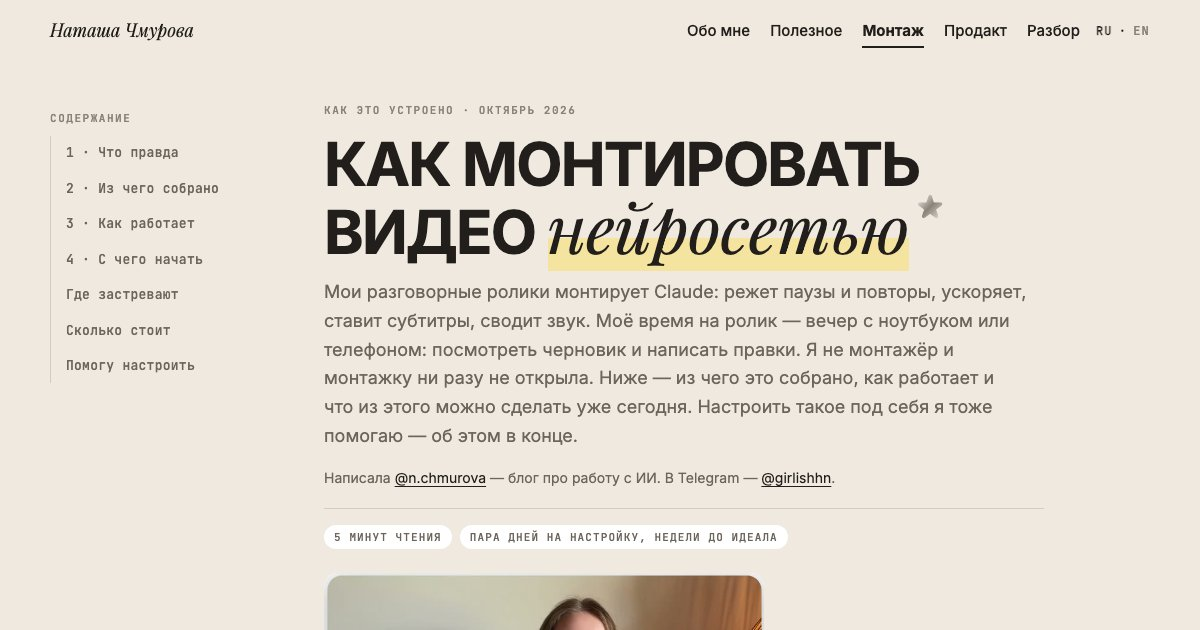
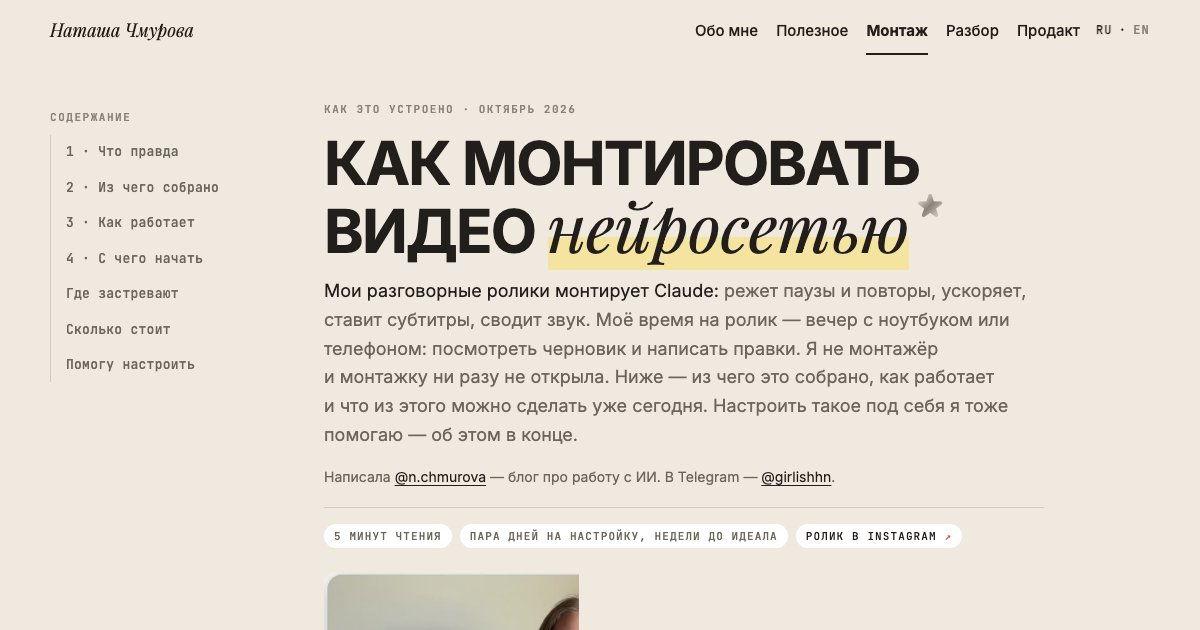
Сборка сайта 2026-10-08 17:57

diff --git a/links/index.html b/links/index.html
@@ -1,2 +1,2 @@
 <!DOCTYPE html><html lang="ru"><head><meta charset="utf-8"><meta name="viewport" content="width=device-width, initial-scale=1"><title>Полезное — Наташа Чмурова</title><meta name="description" content="Инсайты, инструкции, гайды и ссылки из моих роликов."><link rel="canonical" href="https://natalie-chmurova.github.io/links/"><link rel="icon" href="/favicon.svg" type="image/svg+xml"><meta name="theme-color" content="#EFE9DF"><meta property="og:type" content="website"><meta property="og:title" content="Полезное — Наташа Чмурова"><meta property="og:description" content="Инсайты, инструкции, гайды и ссылки из моих роликов."><meta property="og:url" content="https://natalie-chmurova.github.io/links/"><meta property="og:image" content="https://natalie-chmurova.github.io/og.jpg?v=35628582"><meta name="twitter:card" content="summary_large_image"><link rel="alternate" hreflang="en" href="https://natalie-chmurova.github.io/en/links/"><link rel="alternate" hreflang="ru" href="https://natalie-chmurova.github.io/links/"><link rel="preconnect" href="https://fonts.googleapis.com"><link rel="preconnect" href="https://fonts.gstatic.com" crossorigin><link href="https://fonts.googleapis.com/css2?family=Inter:wght@400;500;600;700&family=JetBrains+Mono:wght@500&family=Playfair+Display:ital,wght@1,400;1,500&display=swap" rel="stylesheet"><link rel="stylesheet" href="/_astro/Base.C2EbYzq-.css"><style>.follow{background:var(--ink);color:#fff;border-radius:var(--radius);gap:14px;padding:22px 20px;display:grid}.follow h2{font-family:var(--serif);font-size:28px;font-style:italic;font-weight:400}.follow ul{gap:8px;margin:0;padding:0;font-size:15px;list-style:none;display:grid}.follow li{align-items:baseline;gap:10px;display:flex}.follow li:before{content:"";background:var(--butter);border-radius:50%;flex:0 0 7px;height:7px;transform:translateY(-2px)}.follow-btn{background:var(--butter);color:var(--ink);border-radius:999px;flex-wrap:wrap;justify-self:start;align-items:center;gap:6px;padding:11px 18px;font-size:15px;font-weight:600;display:inline-flex}.follow-btn .handle{opacity:.7;font-weight:400}.follow-note{color:var(--faint);max-width:70ch;margin-top:12px;font-size:13px}@media (width>=720px){.follow{padding:28px 32px}.follow h2{font-size:32px}}@media (width<=479px){.follow-btn .handle{display:none}}
-</style></head><body><a class="skip-link" href="#main">К содержимому</a><header class="site-header"><a class="brand" href="/">Наташа Чмурова</a><div class="lang-switch"><span class="on">RU</span><span aria-hidden="true">·</span><a href="/en/links/" hreflang="en">EN</a></div><nav aria-label="Разделы"><a href="/">Обо мне</a><a href="/links/" aria-current="page">Полезное</a><a href="/montazh/">Монтаж</a><a href="/razbor/">Разбор</a><a href="/product/">Продакт</a></nav></header><main id="main"><div class="page-head"><h1>Полезное</h1><p>Инсайты, инструкции, гайды и ссылки из моих роликов.</p></div><section class="section" style="padding-top: 14px"><section class="guide-banner" aria-labelledby="guide-title"><img class="guide-cover" src="/img/links/montazh-guide.jpg?v=7ac51f4b" alt="" width="1200" height="675" loading="lazy"><div class="guide-text"><span class="chip topic">гайд</span><h2 id="guide-title"><a href="/montazh/">Как монтировать видео нейросетью</a></h2><p>Я не монтажёр. Мои разговорные ролики собирает нейросеть по правилам, которые я ей написала. Здесь — из чего это собрано, как работает и с чего начать.</p><a class="guide-cta" href="/montazh/" tabindex="-1" aria-hidden="true">Читать гайд <span class="arrow">→</span></a></div></section><div class="cards"><article class="card"><a href="/links/devday-2026/" tabindex="-1" aria-hidden="true"><img class="card-thumb" src="/img/links/devday-2026.jpg?v=ef1ae04a" alt="" width="1200" height="675" loading="lazy"></a><div><div class="chips"><span class="chip topic">новости</span></div><h3><a href="/links/devday-2026/">OpenAI DevDay 2026 — полная презентация</a></h3><p class="why">Запись, по которой я делала обзор. 53 минуты, на английском</p><p class="from">из ролика: <a href="https://www.instagram.com/reel/Dd8oIUbuosj/" target="_blank" rel="noopener">Instagram</a> · 01.10.2026</p></div></article><article class="card"><a href="/links/top-tools/" tabindex="-1" aria-hidden="true"><img class="card-thumb" src="/img/links/top-tools.jpg?v=6a9ca3b7" alt="" width="1200" height="675" loading="lazy"></a><div><div class="chips"><span class="chip topic">инструменты</span></div><h3><a href="/links/top-tools/">Топ инструментов</a></h3><p class="why">Полезные инструменты под разные задачи — текст, факты, видео, монтаж — с честными пометками, что открывается из Беларуси и России</p><p class="from">из ролика: <a href="https://www.instagram.com/reel/Dd6D0LMuVsR/" target="_blank" rel="noopener">Instagram</a> · 30.09.2026</p></div></article><article class="card"><a href="/links/instagram-export-prompt/" tabindex="-1" aria-hidden="true"><img class="card-thumb" src="/img/links/instagram-export-prompt.jpg?v=90d1fb1e" alt="" width="1200" height="675" loading="lazy"></a><div><div class="chips"><span class="chip topic">промпты</span></div><h3><a href="/links/instagram-export-prompt/">Промт: разбор вашей выгрузки Instagram</a></h3><p class="why">Три шага: запросить выгрузку, выбрать нужные файлы, вставить промт в чат с ИИ — разбор без выдуманных цифр</p><p class="from">из ролика: <a href="https://www.instagram.com/reel/DdtMWxnu--6/" target="_blank" rel="noopener">Instagram</a> · 25.09.2026</p></div></article><article class="card"><a href="/links/claude-mods/" tabindex="-1" aria-hidden="true"><img class="card-thumb" src="/img/links/claude-mods.jpg?v=ca85d0c5" alt="" width="1200" height="675" loading="lazy"></a><div><div class="chips"><span class="chip topic">claude</span></div><h3><a href="/links/claude-mods/">Моды для Claude</a></h3><p class="why">Как включить моды в Claude Code и какие поставить первыми — аркада и дыхание, пока Claude думает</p><p class="from">из ролика: <a href="https://www.instagram.com/reel/DdocYiZOlXn/" target="_blank" rel="noopener">Instagram</a> · 23.09.2026</p></div></article><article class="card"><a href="/links/prompt-template/" tabindex="-1" aria-hidden="true"><img class="card-thumb" src="/img/links/prompt-template.jpg?v=fd01f20a" alt="" width="1200" height="675" loading="lazy"></a><div><div class="chips"><span class="chip topic">промпты</span></div><h3><a href="/links/prompt-template/">Шаблон хорошего промпта</a></h3><p class="why">Три части, без которых AI гадает — вместо «ты эксперт с опытом 300 лет»</p><p class="from">из ролика: <a href="https://www.instagram.com/reel/DdQ3dGEObEi/" target="_blank" rel="noopener">Instagram</a> · 14.09.2026</p></div></article></div></section><section class="section follow-section"><div class="follow"><h2>Дальше в блоге</h2><ul><li>Один и тот же ролик монтируют Claude и Codex</li><li>Три ролика о том, заменит ли нас AI</li><li>Месяц блога в честных цифрах</li></ul><a class="follow-btn" href="https://www.instagram.com/n.chmurova/" target="_blank" rel="noopener">Подписаться в Instagram <span class="handle">@n.chmurova</span> <span aria-hidden="true">↗</span></a></div><p class="follow-note">Названия, тарифы и лимиты сервисов меняются — если что-то разошлось с реальностью, ориентируйтесь на их документацию.</p></section></main><footer class="site-footer"><a href="https://www.instagram.com/n.chmurova/" target="_blank" rel="noopener">@n.chmurova</a><a href="https://t.me/girlishhn" target="_blank" rel="noopener">Telegram</a><a href="https://www.youtube.com/@n.chmurova" target="_blank" rel="noopener">YouTube</a><a href="mailto:natalia.chmurova@icloud.com">Почта</a><span>© 2026 Natalia Chmurova</span></footer></body></html>
+</style></head><body><a class="skip-link" href="#main">К содержимому</a><header class="site-header"><a class="brand" href="/">Наташа Чмурова</a><div class="lang-switch"><span class="on">RU</span><span aria-hidden="true">·</span><a href="/en/links/" hreflang="en">EN</a></div><nav aria-label="Разделы"><a href="/">Обо мне</a><a href="/links/" aria-current="page">Полезное</a><a href="/montazh/">Монтаж</a><a href="/razbor/">Разбор</a><a href="/product/">Продакт</a></nav></header><main id="main"><div class="page-head"><h1>Полезное</h1><p>Инсайты, инструкции, гайды и ссылки из моих роликов.</p></div><section class="section" style="padding-top: 14px"><section class="guide-banner" aria-labelledby="guide-title"><img class="guide-cover" src="/img/links/montazh-guide.jpg?v=7ac51f4b" alt="" width="1200" height="675" loading="lazy"><div class="guide-text"><span class="chip topic">гайд</span><h2 id="guide-title"><a href="/montazh/">Как монтировать видео нейросетью</a></h2><p>Я не монтажёр. Мои разговорные ролики собирает нейросеть по правилам, которые я ей написала. Здесь — из чего это собрано, как работает и с чего начать.</p><a class="guide-cta" href="/montazh/" tabindex="-1" aria-hidden="true">Читать гайд <span class="arrow">→</span></a><p class="guide-from">из ролика: <a href="https://www.instagram.com/reel/DeOp9p9Ooy9/" target="_blank" rel="noopener">Instagram</a></p></div></section><div class="cards"><article class="card"><a href="/links/devday-2026/" tabindex="-1" aria-hidden="true"><img class="card-thumb" src="/img/links/devday-2026.jpg?v=ef1ae04a" alt="" width="1200" height="675" loading="lazy"></a><div><div class="chips"><span class="chip topic">новости</span></div><h3><a href="/links/devday-2026/">OpenAI DevDay 2026 — полная презентация</a></h3><p class="why">Запись, по которой я делала обзор. 53 минуты, на английском</p><p class="from">из ролика: <a href="https://www.instagram.com/reel/Dd8oIUbuosj/" target="_blank" rel="noopener">Instagram</a> · 01.10.2026</p></div></article><article class="card"><a href="/links/top-tools/" tabindex="-1" aria-hidden="true"><img class="card-thumb" src="/img/links/top-tools.jpg?v=6a9ca3b7" alt="" width="1200" height="675" loading="lazy"></a><div><div class="chips"><span class="chip topic">инструменты</span></div><h3><a href="/links/top-tools/">Топ инструментов</a></h3><p class="why">Полезные инструменты под разные задачи — текст, факты, видео, монтаж — с честными пометками, что открывается из Беларуси и России</p><p class="from">из ролика: <a href="https://www.instagram.com/reel/Dd6D0LMuVsR/" target="_blank" rel="noopener">Instagram</a> · 30.09.2026</p></div></article><article class="card"><a href="/links/instagram-export-prompt/" tabindex="-1" aria-hidden="true"><img class="card-thumb" src="/img/links/instagram-export-prompt.jpg?v=90d1fb1e" alt="" width="1200" height="675" loading="lazy"></a><div><div class="chips"><span class="chip topic">промпты</span></div><h3><a href="/links/instagram-export-prompt/">Промт: разбор вашей выгрузки Instagram</a></h3><p class="why">Три шага: запросить выгрузку, выбрать нужные файлы, вставить промт в чат с ИИ — разбор без выдуманных цифр</p><p class="from">из ролика: <a href="https://www.instagram.com/reel/DdtMWxnu--6/" target="_blank" rel="noopener">Instagram</a> · 25.09.2026</p></div></article><article class="card"><a href="/links/claude-mods/" tabindex="-1" aria-hidden="true"><img class="card-thumb" src="/img/links/claude-mods.jpg?v=ca85d0c5" alt="" width="1200" height="675" loading="lazy"></a><div><div class="chips"><span class="chip topic">claude</span></div><h3><a href="/links/claude-mods/">Моды для Claude</a></h3><p class="why">Как включить моды в Claude Code и какие поставить первыми — аркада и дыхание, пока Claude думает</p><p class="from">из ролика: <a href="https://www.instagram.com/reel/DdocYiZOlXn/" target="_blank" rel="noopener">Instagram</a> · 23.09.2026</p></div></article><article class="card"><a href="/links/prompt-template/" tabindex="-1" aria-hidden="true"><img class="card-thumb" src="/img/links/prompt-template.jpg?v=fd01f20a" alt="" width="1200" height="675" loading="lazy"></a><div><div class="chips"><span class="chip topic">промпты</span></div><h3><a href="/links/prompt-template/">Шаблон хорошего промпта</a></h3><p class="why">Три части, без которых AI гадает — вместо «ты эксперт с опытом 300 лет»</p><p class="from">из ролика: <a href="https://www.instagram.com/reel/DdQ3dGEObEi/" target="_blank" rel="noopener">Instagram</a> · 14.09.2026</p></div></article></div></section><section class="section follow-section"><div class="follow"><h2>Дальше в блоге</h2><ul><li>Один и тот же ролик монтируют Claude и Codex</li><li>Три ролика о том, заменит ли нас AI</li><li>Месяц блога в честных цифрах</li></ul><a class="follow-btn" href="https://www.instagram.com/n.chmurova/" target="_blank" rel="noopener">Подписаться в Instagram <span class="handle">@n.chmurova</span> <span aria-hidden="true">↗</span></a></div><p class="follow-note">Названия, тарифы и лимиты сервисов меняются — если что-то разошлось с реальностью, ориентируйтесь на их документацию.</p></section></main><footer class="site-footer"><a href="https://www.instagram.com/n.chmurova/" target="_blank" rel="noopener">@n.chmurova</a><a href="https://t.me/girlishhn" target="_blank" rel="noopener">Telegram</a><a href="https://www.youtube.com/@n.chmurova" target="_blank" rel="noopener">YouTube</a><a href="mailto:natalia.chmurova@icloud.com">Почта</a><span>© 2026 Natalia Chmurova</span></footer></body></html>

diff --git a/_astro/montazh.B8mET3u2.css b/_astro/montazh.B8mET3u2.css
@@ -1,0 +1,1 @@
+#progress{z-index:50;background:var(--ink);width:0;height:2px;position:fixed;top:0;left:0}.mz{width:min(var(--max), 100% - 2 * var(--gutter));grid-template-columns:minmax(0,1fr);margin:0 auto;padding:28px 0 64px;display:grid}@media (width>=1000px){.mz{grid-template-columns:210px minmax(0,720px);column-gap:64px;padding-top:40px}.mz-hero{grid-area:1/2}.mz .rail{grid-area:1/1/span 2}.mz-col{grid-area:2/2}}.mz-hero{flex-direction:column;gap:16px;display:flex}.mz-hero .eyebrow{font-family:var(--mono);letter-spacing:.14em;text-transform:uppercase;color:var(--faint);margin:0;font-size:11px;font-weight:500}.mz-hero h1{font-family:var(--sans);letter-spacing:-.03em;text-transform:uppercase;margin:0;font-size:clamp(32px,6vw,60px);font-weight:700;line-height:1}.mz-hero h1 em{font-family:var(--serif);letter-spacing:0;text-transform:none;background:linear-gradient(transparent 62%, var(--butter) 62%) no-repeat;font-size:1.1em;font-style:italic;font-weight:400}.mz-last{white-space:nowrap}.mz-star{vertical-align:top;background:linear-gradient(135deg, var(--card), var(--faint) 50%, var(--chip));color:#0000;-webkit-background-clip:text;background-clip:text;margin-left:.25em;font-size:.45em;display:inline-block}.mz-hero .standfirst{max-width:62ch;color:var(--muted);margin:0;font-size:18px;line-height:1.6}.mz-hero .standfirst .lead-in,.rz-standfirst .lead-in{color:var(--ink)}@media (width<=719px){.mz-hero .standfirst{font-size:16px;line-height:1.55}}.mz-hero .byline{color:var(--muted);margin:0;font-size:14px}.mz-hero .meta{border-top:1px solid var(--line);flex-wrap:wrap;gap:8px;margin:4px 0 0;padding:16px 0 0;list-style:none;display:flex}.mz-hero .meta li{background:var(--card);font-family:var(--mono);letter-spacing:.1em;text-transform:uppercase;color:var(--muted);border-radius:999px;padding:4px 10px;font-size:11px}.mz-hero .meta li a{color:var(--ink);margin:-10px 0;padding:10px 0;text-decoration:none;display:inline-block}.mz-hero .meta li a:after{content:" ↗";color:var(--red)}.mz-hero a,.mz-col a{color:var(--ink);text-underline-offset:3px;text-decoration:underline 1px}.mz .rail{margin-top:24px}.mz .rail:before{content:"Содержание";font-family:var(--mono);letter-spacing:.14em;text-transform:uppercase;color:var(--faint);margin-bottom:10px;font-size:11px;font-weight:500;display:block}.mz .rail ol{border-radius:var(--radius);background:var(--card);box-shadow:var(--shadow);flex-wrap:wrap;gap:0 16px;margin:0;padding:8px 16px;list-style:none;display:flex}.mz .rail a{font-family:var(--mono);letter-spacing:.02em;color:var(--muted);padding:7px 0;font-size:12px;text-decoration:none;display:inline-block}.mz .rail a.here{color:var(--ink)}@media (hover:hover) and (pointer:fine){.mz .rail a:hover{color:var(--ink)}}@media (width>=1000px){.mz .rail{align-self:start;margin:8px 0 0;position:sticky;top:28px}.mz .rail ol{border-left:1px solid var(--line);box-shadow:none;background:0 0;border-radius:0;flex-flow:column;gap:2px;padding:0}.mz .rail a{border-left:2px solid #0000;margin-left:-1px;padding:7px 0 7px 14px;font-size:13px;transition:color .2s,border-color .2s;display:block}.mz .rail a.here{border-left-color:var(--ink);font-weight:500}}.mz-col{flex-direction:column;min-width:0;display:flex}.mz-section{flex-direction:column;gap:16px;padding-top:44px;display:flex}.mz .stack{flex-direction:column;gap:16px;display:flex}.mz-col p{margin:0;line-height:1.7}.mz-col strong{font-weight:600}.mz-col h2{font-family:var(--serif);text-wrap:balance;margin:0;font-size:clamp(28px,4vw,38px);font-style:italic;font-weight:400;line-height:1.15}.mz-col h3{margin:0;font-size:17px;font-weight:600;line-height:1.35}.mz-section>.stack:first-child>h2:first-child{border-top:1px solid var(--line);padding-top:18px}.mz .lede{color:var(--muted);font-size:18px}.mz .step-head{border-top:1px solid var(--line);align-items:flex-start;gap:14px;padding-top:18px;display:flex}.mz .step-num{border:1px solid var(--ink);width:34px;height:34px;font-family:var(--mono);border-radius:50%;flex:none;place-items:center;margin-top:4px;font-size:13px;display:inline-grid}.mz ul.plain,.mz .cannot ul{flex-direction:column;gap:6px;margin:0;padding-left:20px;display:flex}.mz ul.plain li::marker,.mz .cannot li::marker{color:var(--red)}.mz-col code{background:var(--card);font-family:var(--mono);border-radius:6px;padding:2px 6px;font-size:13px}.mz .cannot{border:2px solid var(--ink);border-radius:var(--radius);background:var(--card);flex-direction:column;gap:12px;padding:22px 20px;display:flex}.mz .cannot h3{font-family:var(--serif);font-size:26px;font-style:italic;font-weight:400;line-height:1.2}.mz .cannot p{color:var(--muted);font-size:15px}.mz .checklist{border-radius:var(--radius);background:var(--card);box-shadow:var(--shadow);flex-direction:column;gap:14px;padding:22px 20px;display:flex}.mz .checklist h3{font-size:18px}.mz .check{cursor:pointer;align-items:flex-start;gap:12px;font-size:16px;line-height:1.45;display:flex}.mz .check input{width:20px;height:20px;accent-color:var(--ink);flex:none;margin:1px 0 0}.mz .check input:checked+span{color:var(--faint);text-decoration:line-through}.mz .check-note{font-family:var(--mono);color:var(--faint);font-size:12px}.mz .say-label,.mz .mine-label,.mz .choice-label,.mz .term-label{font-family:var(--mono);letter-spacing:.14em;text-transform:uppercase;color:var(--faint);font-size:11px;font-weight:500;display:block}.mz .say{border-left:3px solid var(--ink);background:var(--card);border-radius:4px 16px 16px 4px;flex-direction:column;gap:6px;padding:14px 18px;display:flex}.mz .say p{font-family:var(--serif);font-size:18px;font-style:italic;line-height:1.4}.mz .mine,.mz .choice{border-radius:var(--radius);background:#f5e4a08c;flex-direction:column;gap:8px;padding:16px 18px;display:flex}.mz .mine p,.mz .choice p{font-size:15px}.mz .stuck{flex-direction:column;gap:10px;display:flex}.mz .stuck-item{border-radius:var(--radius);background:var(--card);box-shadow:var(--shadow);flex-direction:column;gap:8px;padding:16px 18px;display:flex}.mz .stuck-row{color:var(--muted);grid-template-columns:84px minmax(0,1fr);gap:2px 12px;font-size:15px;display:grid}.mz .stuck-key{font-family:var(--mono);letter-spacing:.12em;text-transform:uppercase;color:var(--red);padding-top:3px;font-size:11px}.mz figure{flex-direction:column;gap:8px;margin:6px 0;display:flex}.mz .shots{flex-direction:column;gap:8px;display:flex}.mz .shots img,.mz .window img{border-radius:14px;width:100%;height:auto;display:block}.mz .window img{box-shadow:var(--shadow)}.mz figcaption{font-family:var(--mono);color:var(--faint);font-size:12px;line-height:1.5}.mz .closing{border-radius:var(--radius);background:var(--ink);color:var(--card);flex-direction:column;gap:12px;margin-top:8px;padding:26px 22px;display:flex}.mz .closing h3{font-family:var(--serif);color:var(--butter);font-size:30px;font-style:italic;font-weight:400;line-height:1.15}.mz .closing p{color:#ffffffd1;font-size:15px}.mz .cta-links{flex-wrap:wrap;gap:8px;margin-top:6px;display:flex}.mz .cta-links a{background:var(--butter);color:var(--ink);border-radius:999px;padding:11px 18px;font-size:15px;font-weight:600;text-decoration:none;display:inline-flex}.mz .cta-links a:after{content:" ↗"}.mz-note{color:var(--faint);padding-top:20px;font-size:13px}.mz-note p{line-height:1.5}@media (width>=720px){.mz .cannot,.mz .checklist,.mz .closing{padding:26px 28px}}.mz .shots video{background:var(--card);border-radius:14px;width:100%;height:auto;display:block}.mz .poll{flex-wrap:wrap;align-items:center;gap:10px 16px;margin:4px 0;display:flex}.mz .poll-btn{border:1.5px solid var(--ink);color:var(--ink);font-family:var(--sans);font-size:15px;font-weight:600;line-height:inherit;white-space:nowrap;cursor:pointer;background:0 0;border-radius:999px;padding:10px 18px;text-decoration:none;display:inline-flex}@media (hover:hover) and (pointer:fine){.mz .poll-btn:hover{background:var(--butter)}}.mz .poll-btn.done{color:var(--muted);border-style:dashed}.mz .poll-note{font-family:var(--mono);color:var(--faint);flex:260px;margin:0;font-size:12px;line-height:1.5}.mz-hero .hero-clip{max-width:440px;margin:8px 0 0}.mz .sheet{border-top:1px solid var(--line);flex-direction:column;font-size:15px;display:flex}.mz .sheet-head,.mz .sheet-row{border-bottom:1px solid var(--line);grid-template-columns:minmax(150px,2fr) 3fr;gap:2px 16px;padding:10px 0;display:grid}.mz .sheet-head{font-family:var(--mono);letter-spacing:.12em;text-transform:uppercase;color:var(--faint);font-size:11px}.mz .sheet-q{font-weight:600}.mz .sheet-row>span:last-child{color:var(--muted);line-height:1.55}.mz .closing-note{color:#fff9;font-size:13px}@media (width<=520px){.mz .sheet-head{display:none}.mz .sheet-row{grid-template-columns:1fr;gap:2px}}.mz .code-copy{background:var(--card);box-shadow:var(--shadow);border-radius:12px;padding:11px 48px 11px 14px}.mz .code-copy code{overflow-wrap:anywhere;background:0 0;border-radius:0;padding:0;font-size:14px}

diff --git a/montazh/index.html b/montazh/index.html
@@ -1,4 +1,4 @@
-<!DOCTYPE html><html lang="ru"><head><meta charset="utf-8"><meta name="viewport" content="width=device-width, initial-scale=1"><title>МОНТАЖ — как монтировать видео нейросетью · Наташа Чмурова</title><meta name="description" content="Я не монтажёр: мои разговорные ролики собирает нейросеть по правилам, которые я ей написала. Как это устроено и с чего начать."><link rel="canonical" href="https://natalie-chmurova.github.io/montazh/"><link rel="icon" href="/favicon.svg" type="image/svg+xml"><meta name="theme-color" content="#EFE9DF"><meta property="og:type" content="website"><meta property="og:title" content="МОНТАЖ — как монтировать видео нейросетью · Наташа Чмурова"><meta property="og:description" content="Я не монтажёр: мои разговорные ролики собирает нейросеть по правилам, которые я ей написала. Как это устроено и с чего начать."><meta property="og:url" content="https://natalie-chmurova.github.io/montazh/"><meta property="og:image" content="https://natalie-chmurova.github.io/montazh/og.jpg?v=6359a07e"><meta name="twitter:card" content="summary_large_image"><link rel="preconnect" href="https://fonts.googleapis.com"><link rel="preconnect" href="https://fonts.gstatic.com" crossorigin><link href="https://fonts.googleapis.com/css2?family=Inter:wght@400;500;600;700&family=JetBrains+Mono:wght@500&family=Playfair+Display:ital,wght@1,400;1,500&display=swap" rel="stylesheet"><link rel="stylesheet" href="/_astro/Base.C2EbYzq-.css"><link rel="stylesheet" href="/_astro/montazh.BLNItUVC.css"></head><body><a class="skip-link" href="#main">К содержимому</a><header class="site-header"><a class="brand" href="/">Наташа Чмурова</a><div class="lang-switch"><span class="on">RU</span><span aria-hidden="true">·</span><a href="/en/" hreflang="en">EN</a></div><nav aria-label="Разделы"><a href="/">Обо мне</a><a href="/links/">Полезное</a><a href="/montazh/" aria-current="page">Монтаж</a><a href="/razbor/">Разбор</a><a href="/product/">Продакт</a></nav></header><main id="main"><div id="progress"></div>
+<!DOCTYPE html><html lang="ru"><head><meta charset="utf-8"><meta name="viewport" content="width=device-width, initial-scale=1"><title>МОНТАЖ — как монтировать видео нейросетью · Наташа Чмурова</title><meta name="description" content="Я не монтажёр: мои разговорные ролики собирает нейросеть по правилам, которые я ей написала. Как это устроено и с чего начать."><link rel="canonical" href="https://natalie-chmurova.github.io/montazh/"><link rel="icon" href="/favicon.svg" type="image/svg+xml"><meta name="theme-color" content="#EFE9DF"><meta property="og:type" content="website"><meta property="og:title" content="МОНТАЖ — как монтировать видео нейросетью · Наташа Чмурова"><meta property="og:description" content="Я не монтажёр: мои разговорные ролики собирает нейросеть по правилам, которые я ей написала. Как это устроено и с чего начать."><meta property="og:url" content="https://natalie-chmurova.github.io/montazh/"><meta property="og:image" content="https://natalie-chmurova.github.io/montazh/og.jpg?v=43033eab"><meta name="twitter:card" content="summary_large_image"><link rel="preconnect" href="https://fonts.googleapis.com"><link rel="preconnect" href="https://fonts.gstatic.com" crossorigin><link href="https://fonts.googleapis.com/css2?family=Inter:wght@400;500;600;700&family=JetBrains+Mono:wght@500&family=Playfair+Display:ital,wght@1,400;1,500&display=swap" rel="stylesheet"><link rel="stylesheet" href="/_astro/Base.C2EbYzq-.css"><link rel="stylesheet" href="/_astro/montazh.B8mET3u2.css"></head><body><a class="skip-link" href="#main">К содержимому</a><header class="site-header"><a class="brand" href="/">Наташа Чмурова</a><div class="lang-switch"><span class="on">RU</span><span aria-hidden="true">·</span><a href="/en/" hreflang="en">EN</a></div><nav aria-label="Разделы"><a href="/">Обо мне</a><a href="/links/">Полезное</a><a href="/montazh/" aria-current="page">Монтаж</a><a href="/razbor/">Разбор</a><a href="/product/">Продакт</a></nav></header><main id="main"><div id="progress"></div>
 <div class="mz">
 
   <header class="mz-hero">
@@ -9,6 +9,7 @@
     <ul class="meta">
       <li>5 минут чтения</li>
       <li>пара дней на настройку, недели до идеала</li>
+      <li><a href="https://www.instagram.com/reel/DeOp9p9Ooy9/" target="_blank" rel="noopener">ролик в Instagram</a></li>
     </ul>
     <figure class="hero-clip">
       <!-- Клип и постер лежат на сайте: site/public/montazh/hook.mp4 и hook.jpg (первые 3,4 с хука, без звука). -->
